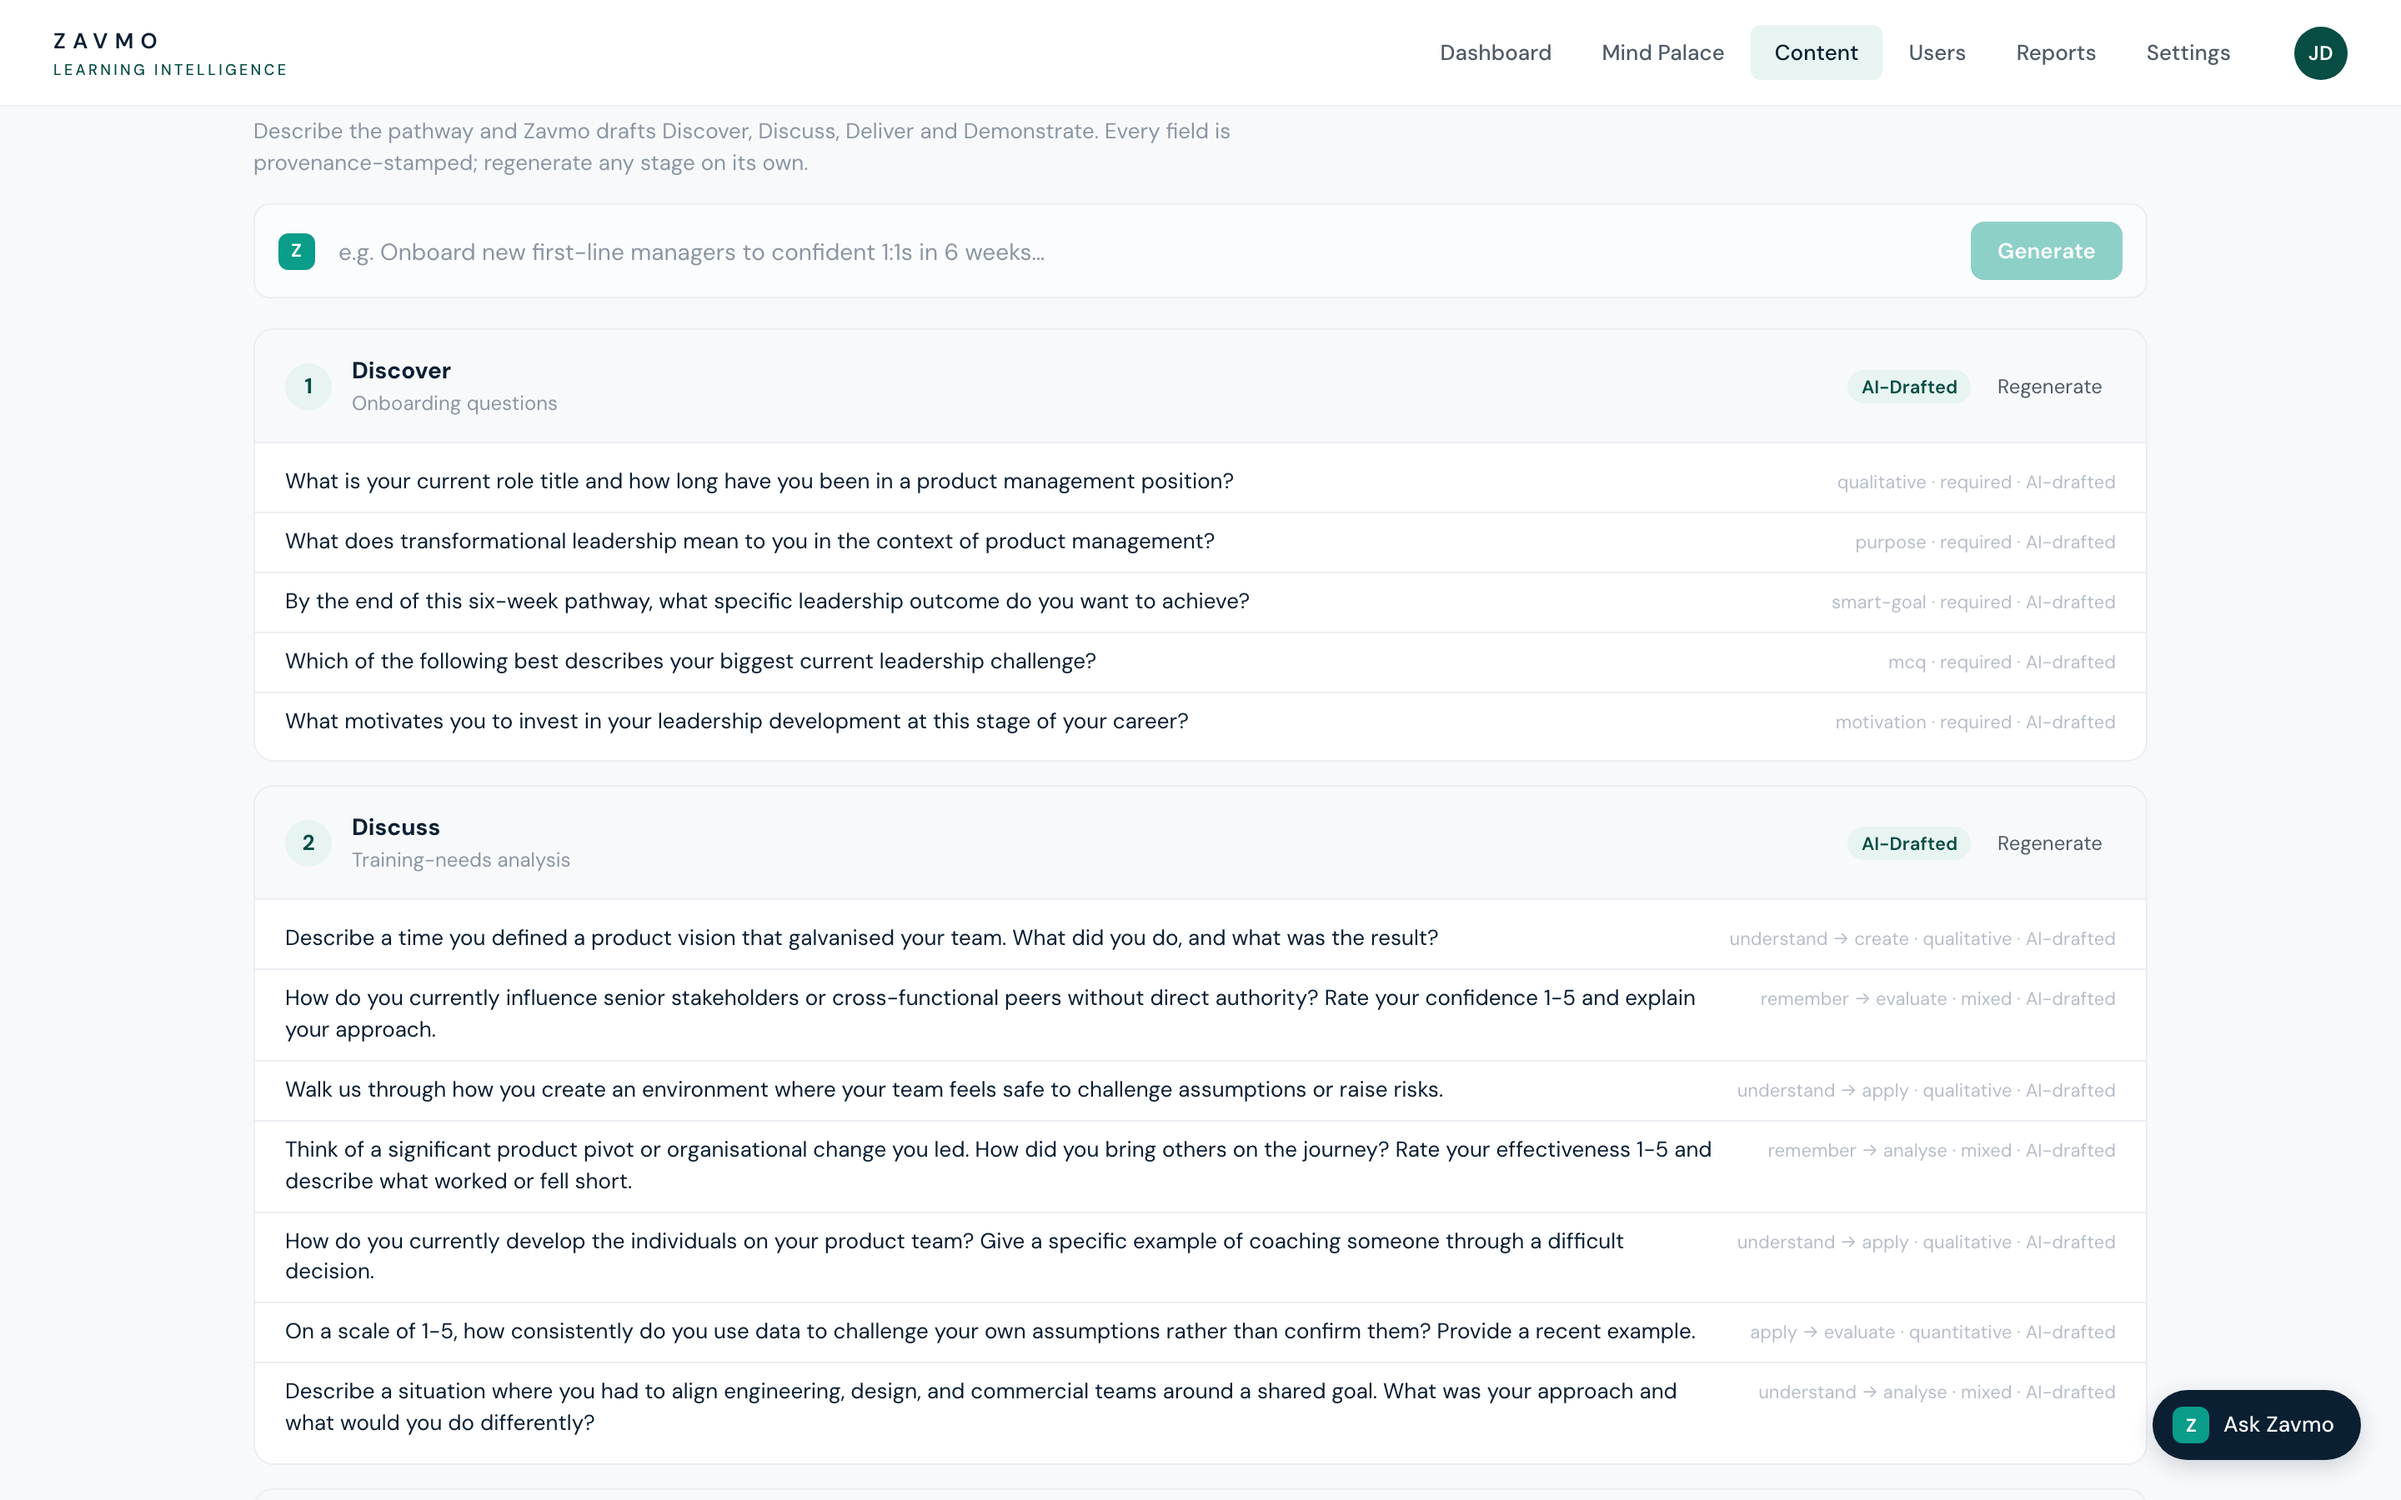
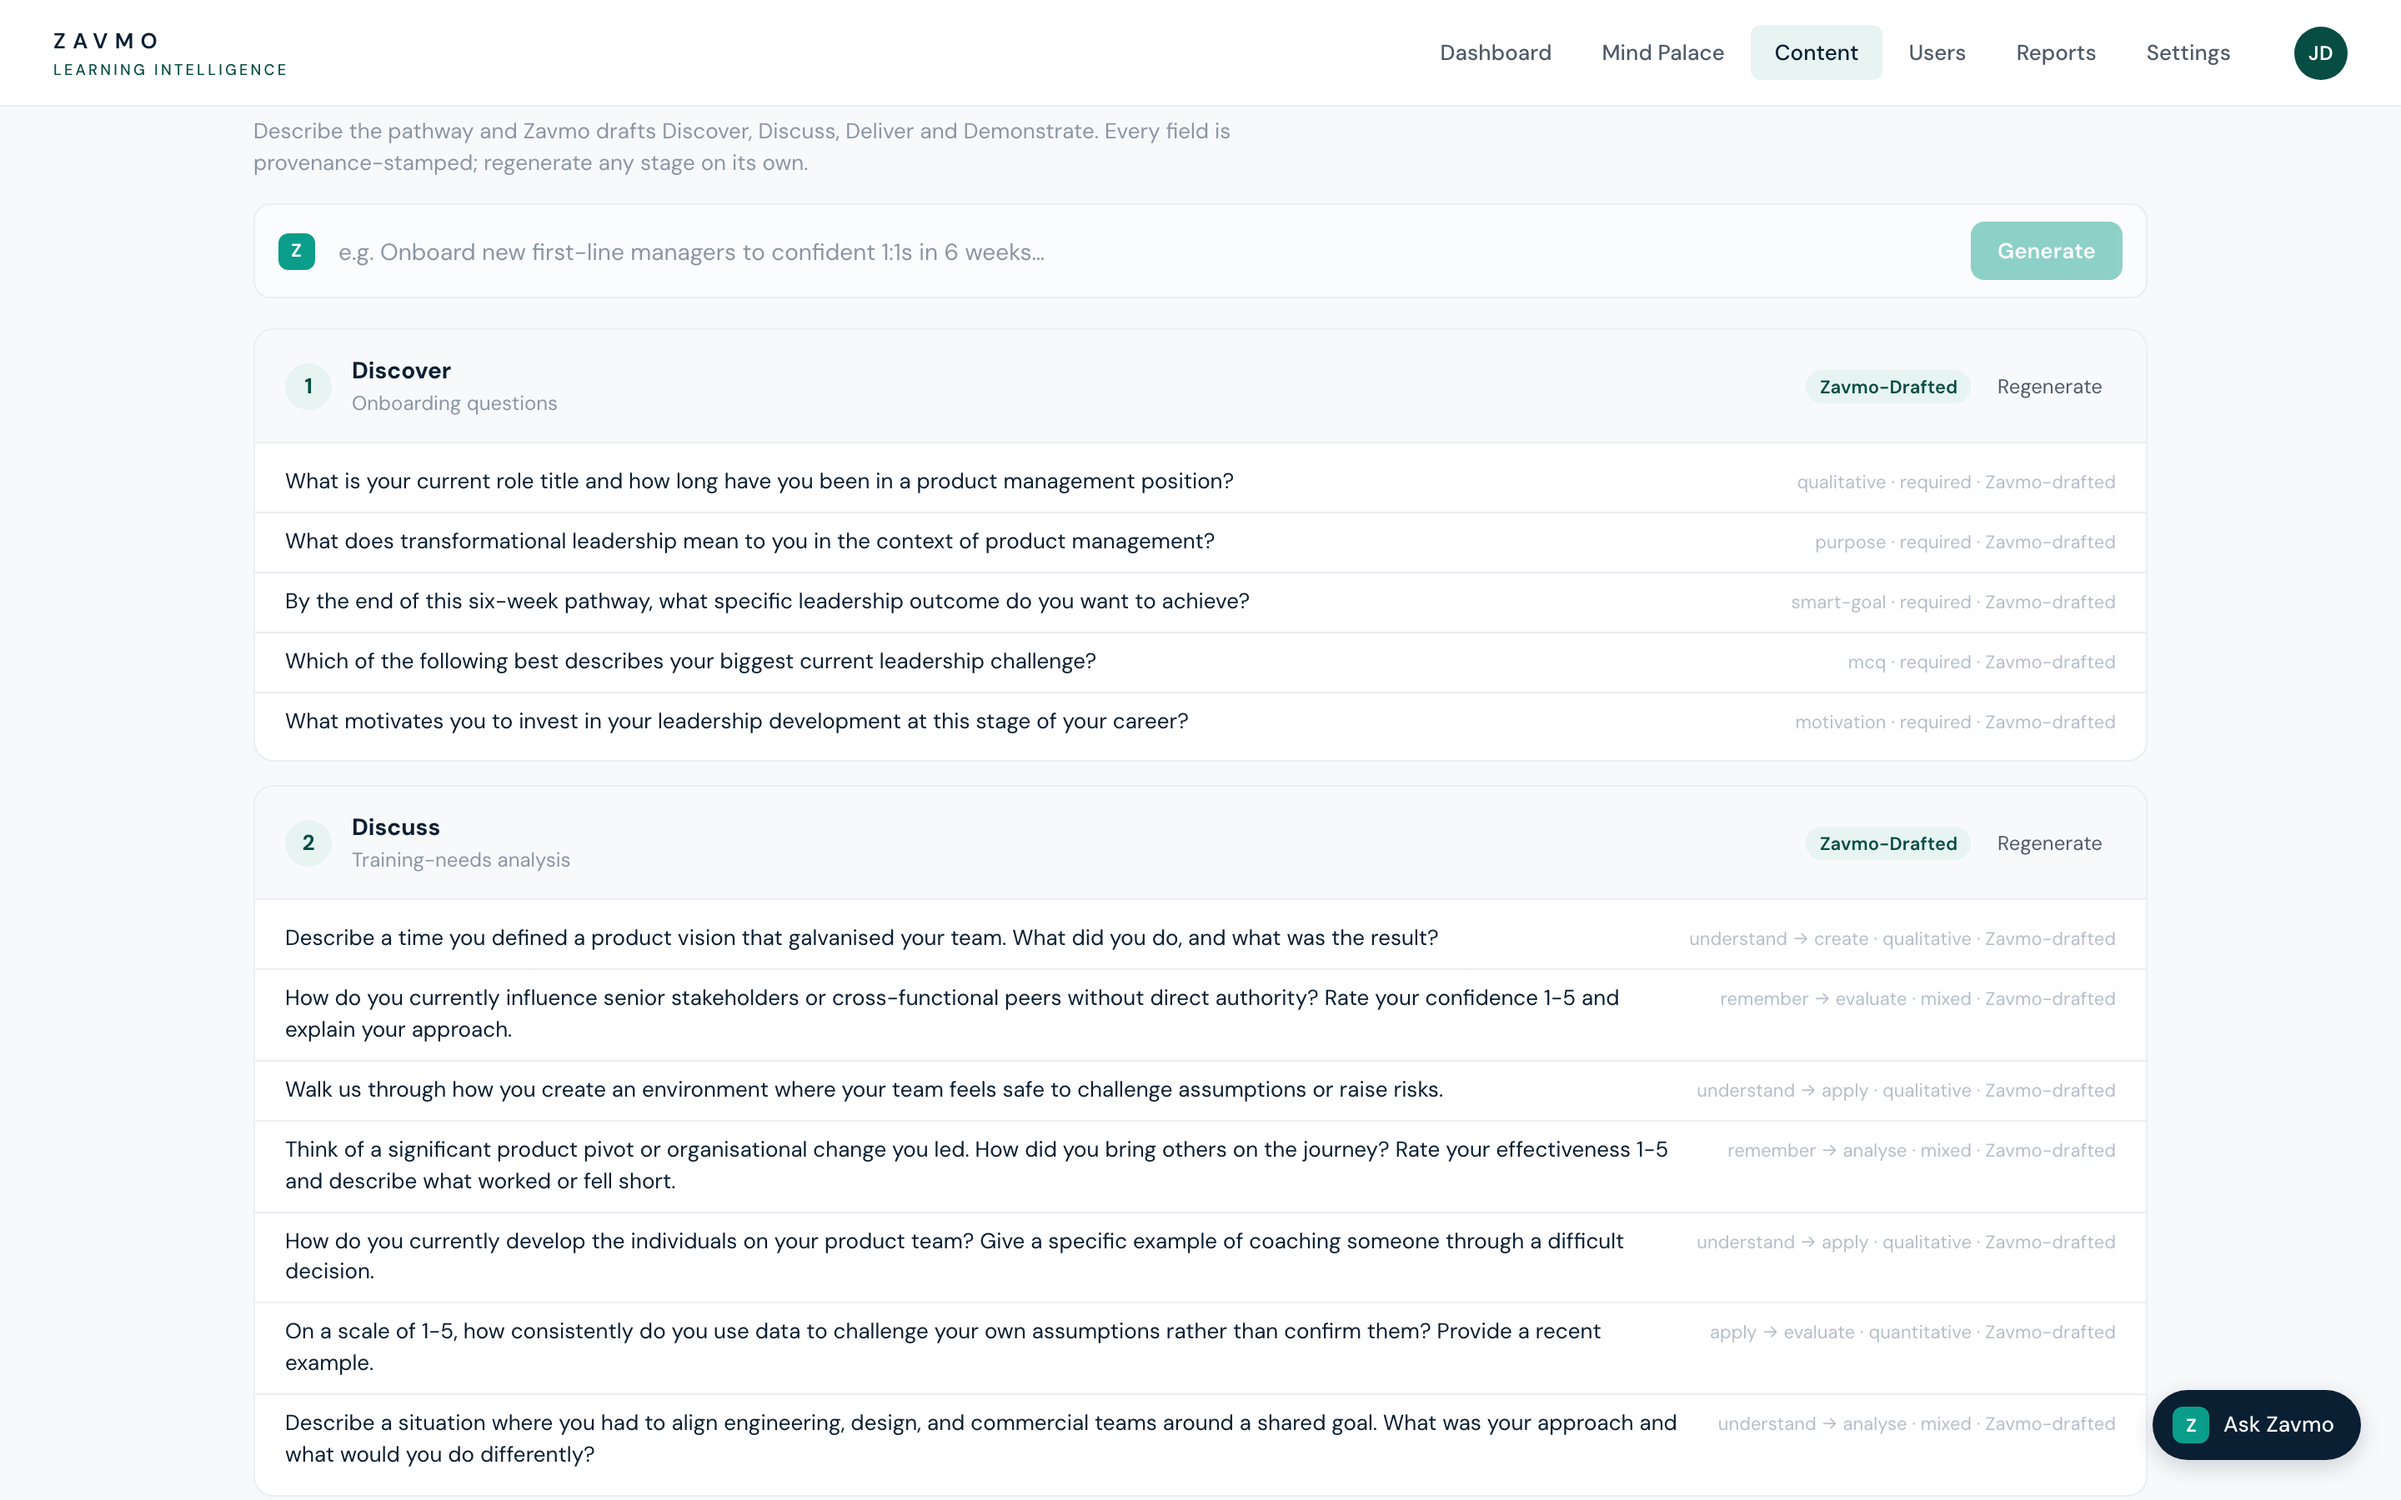
admin deck: Zavmo not AI; Jarvis + xAPI difference; named pathway; national quals
- 'AI' -> 'Zavmo' in captions and screenshots (ZAVMO AI, AI-drafted)
- Dashboard reframed as 'the Jarvis of learning'; reports lead with the
  xAPI difference (every moment is evidence, 184k+ statements)
- Pathway named 'Transformational Leadership' (matches generated modules);
  pathways anchored to nationally-recognised, government-regulated qualifications

diff --git a/admin-journey/index.html b/admin-journey/index.html
@@ -96,17 +96,17 @@ const S=[
   { img:'02.png', eyebrow:'Set-up', title:'Set up your workspace',
     caption:'Zavmo guides a new admin through setup conversationally — organisation, first pathway, first cohort, integrations — and you can leave and resume at any point.' },
 
-  { section:true, num:'PART 2', title:'The command centre', sub:'Your platform, every morning, at a glance.' },
-  { img:'03.png', eyebrow:'Dashboard', title:'Your morning briefing',
-    caption:'An AI briefing triages what needs you — two handled overnight, one to escalate — an “Ask Zavmo” bar answers anything about a learner, cohort or skill, and live metrics track active learners, completion and at-risk in a glance.' },
+  { section:true, num:'PART 2', title:'The command centre', sub:'The Jarvis of learning — an intelligence that reads everything and works for you.' },
+  { img:'03.png', eyebrow:'Dashboard', title:'The Jarvis of learning',
+    caption:'Zavmo reads every signal across the platform overnight and briefs you — two things already handled, one to escalate. Ask Zavmo anything about a learner, a cohort or a skill, and live metrics track active learners, completion and at-risk at a glance. Not a dashboard you drive — an intelligence that works for you.' },
 
-  { section:true, num:'PART 3', title:'Building pathways', sub:'Don’t build from a blank page — describe it, and Zavmo drafts it.' },
+  { section:true, num:'PART 3', title:'Building pathways', sub:'Don’t build from a blank page — describe it, and Zavmo drafts it, anchored to recognised national standards.' },
   { img:'09.png', eyebrow:'Build · Pathway Builder', title:'Create a pathway',
-    caption:'Pick a starting point — a set of job descriptions, a set of skills, a subject area, or a clean canvas — and Zavmo drafts the onboarding, the needs analysis and a module sequence for you to refine.' },
+    caption:'Pick a starting point — job descriptions, a set of skills, a subject area, or a clean canvas. Crucially, you can build from qualifications that are recognised by national governments, so every pathway is anchored to the highest national standards. Zavmo drafts the onboarding, the needs analysis and the module sequence for you to refine.' },
   { img:'10.png', eyebrow:'Build · Four-stage proposal', title:'Zavmo drafts all four stages',
-    caption:'Describe the pathway in a sentence and Zavmo drafts Discover, Discuss, Deliver and Demonstrate — every question provenance-stamped “AI-drafted” and Bloom-mapped, ready to edit or regenerate stage by stage.' },
+    caption:'Describe the pathway in a sentence and Zavmo drafts Discover, Discuss, Deliver and Demonstrate — every question provenance-stamped “Zavmo-drafted” and Bloom-mapped, ready to edit or regenerate stage by stage.' },
   { img:'11.png', eyebrow:'Build · Module sequence', title:'A full module sequence, in seconds',
-    caption:'Out comes a complete, ordered module sequence built for the goal — here, six weeks from manager to transformational leader — each module editable and regenerable. You stay in control of every word before it publishes.' },
+    caption:'Out comes a complete, named, ordered pathway — here, “Transformational Leadership”, nine modules from the leader mindset through influencing, psychological safety and coaching to a capstone leadership signature. Each module editable and regenerable; you stay in control of every word before it publishes.' },
 
   { section:true, num:'PART 4', title:'Content & people', sub:'Everything you teach, and everyone you teach it to.' },
   { img:'04.png', eyebrow:'Content', title:'Pathways & content',
@@ -115,8 +115,8 @@ const S=[
     caption:'Live status for every learner, sourced from learn.zavmo.ai — progress, current stage (Discover → Deliver), cohort and pathway — with Zavmo flagging risks before they slip. (Names shown here are demo data.)' },
 
   { section:true, num:'PART 5', title:'Intelligence', sub:'Reporting without dashboards — and a live map of everything your people know.' },
-  { img:'06.png', eyebrow:'Reports', title:'Reporting, by conversation',
-    caption:'No dashboards to configure — just ask. Zavmo pulls from your xAPI LRS and Neo4j skills graph, clarifies if it needs to, and returns the answer as a summary, evidence, PDF, CSV, a Looker push, or a scheduled weekly.' },
+  { img:'06.png', eyebrow:'Reports · The xAPI difference', title:'Every moment is evidence',
+    caption:'This is what sets Zavmo apart: every click, answer, reflection and Bloom’s climb a learner makes is captured as an xAPI statement — 184,000+ and counting — in a native cmi5 Learning Record Store. So you don’t build dashboards, you just ask. Zavmo reads all of it against your skills graph and hands back the answer as a summary, evidence pack, PDF, CSV, a Looker push, or a scheduled weekly.' },
   { img:'12.png', eyebrow:'Intelligence · Mind Palace', title:'The skills — and the mindset — of your people',
     caption:'Rolled up across every active learner: each star is a learning outcome, sized by how many are working it and coloured by the Bloom’s level they’ve reached. So you see not just what your people have done, but how deeply they understand it — the cognitive depth behind the numbers. Zavmo names the gravity wells (“Coaching Conversations”) and the stuck, lonely outcomes, across 404 learners and 184k xAPI statements.' },
 
